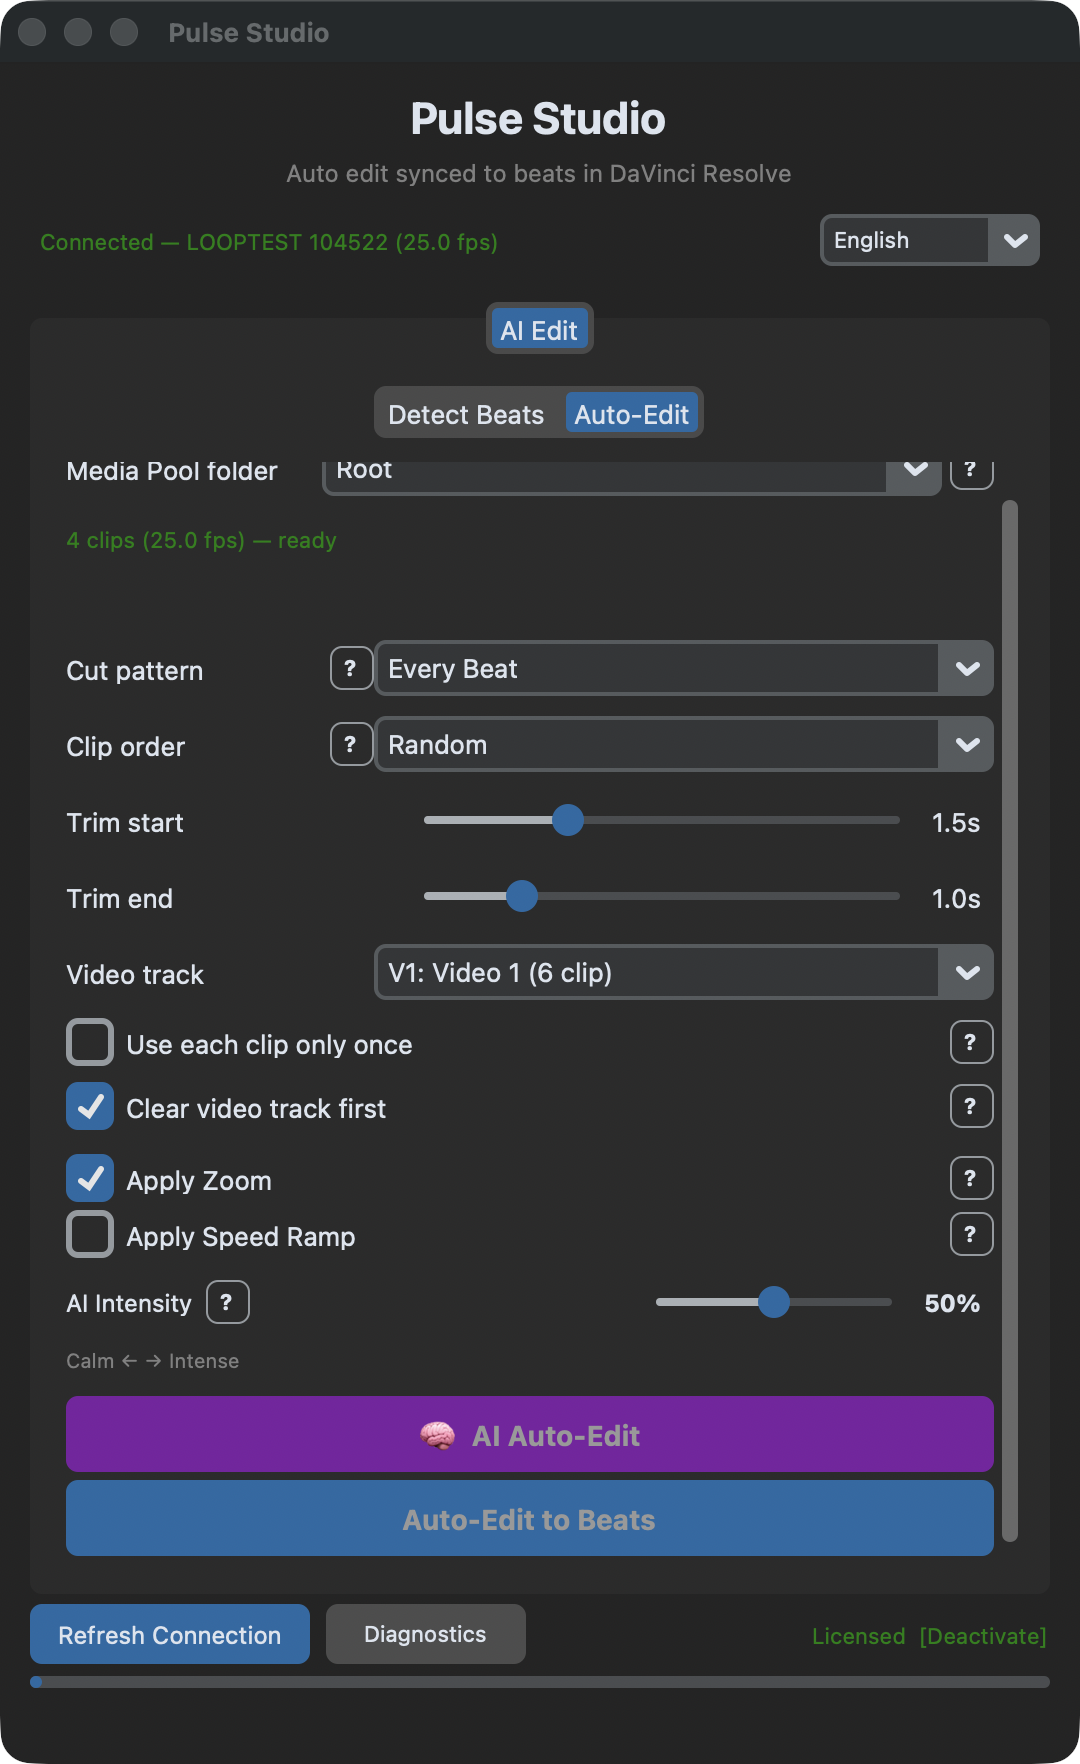
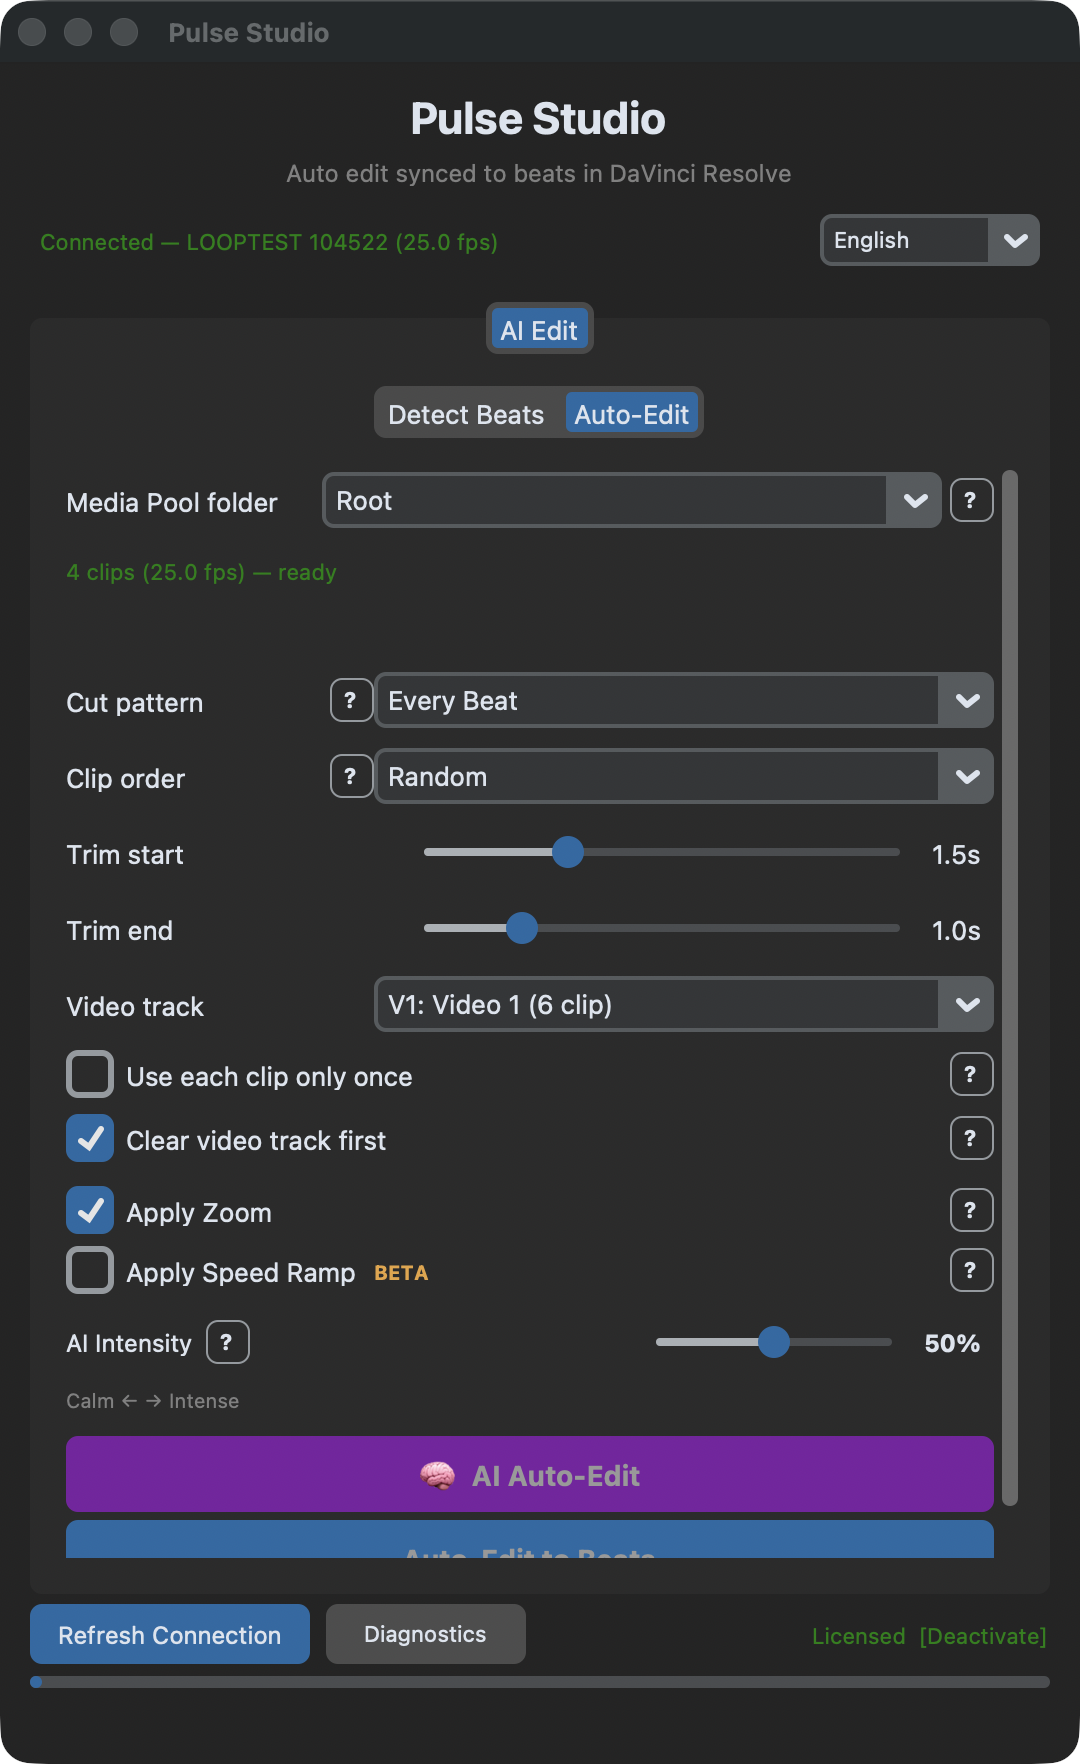
Pulse Studio page rebuilt + shared nav hardened (detached-node fix)
- pulse-nav.js: applyPnav/applyMobile re-query document each tick — React
  hydration replaces the whole header, leaving the captured node detached
  (nav was reverting on pulse-edit.html). v5 cache-bust. Verified pnav on
  /, /pulse-edit.html, /pulse-studio.html via rendered-DOM QC.
- pulse-studio.html: real visuals (fresh app shot with BETA badge, connect/
  detect crop, actual Resolve timeline strip with beat markers), 6-item
  features grid, beta-testing note with support@pulseedit.com in FAQ.

Claude-Session: https://claude.ai/code/session_0126yZV4UdM6s9HmE82V9rDu

Changed region(s): [[0.0611, 0.343, 0.9472, 0.873], [0.0611, 0.2494, 0.9472, 0.343]]

diff --git a/pulse-studio.html b/pulse-studio.html
@@ -62,9 +62,21 @@
 <section class="section wrap" id="how">
     <div class="reveal"><span class="kicker">How it works</span><h2 class="h-lg" style="margin-top:18px;max-width:16ch">Your timeline, edited for you</h2></div>
     <div class="steps">
-        <div class="step reveal"><div class="step__txt"><div class="step__no">01 —</div><h3 class="h-md">Point it at your song</h3><p>Pick an audio track of the timeline, choose a song from your Media Pool (Pulse Studio inserts it for you), or import a file. Hit Detect Beats: AI beat detection maps every beat, bar and subdivision, and places the markers — on the timeline or on the audio clip itself.</p><div class="step__meta"><span class="chip">AI beat detection</span><span class="chip">Media Pool songs</span><span class="chip">Markers, your way</span></div></div><div class="frame frame--shot"><img src="/images/pulse-studio-app.png" alt="Pulse Studio — Detect Beats step" loading="lazy" width="540"/></div></div>
+        <div class="step reveal"><div class="step__txt"><div class="step__no">01 —</div><h3 class="h-md">Point it at your song</h3><p>Pick an audio track of the timeline, choose a song from your Media Pool (Pulse Studio inserts it for you), or import a file. Hit Detect Beats: AI beat detection maps every beat, bar and subdivision, and places the markers — on the timeline or on the audio clip itself.</p><div class="step__meta"><span class="chip">AI beat detection</span><span class="chip">Media Pool songs</span><span class="chip">Markers, your way</span></div></div><div class="frame frame--shot"><img src="/images/pulse-studio-detect.png" alt="Pulse Studio connected to Resolve — pick the song and detect beats" loading="lazy" width="540"/></div></div>
         <div class="step reveal"><div class="step__txt"><div class="step__no">02 —</div><h3 class="h-md">Choose clips &amp; rhythm</h3><p>Use a curated Media Pool folder, or ★ Master to pull every clip you have — subfolders included. Order them sequentially, at random, or chronologically by shooting time (built for weddings). Pick a cut pattern, or let AI mood read the song and decide.</p><div class="step__meta"><span class="chip">★ Master mode</span><span class="chip">Chronological</span><span class="chip">AI mood</span></div></div><div class="frame frame--shot"><img src="/images/pulse-studio-app.png" alt="Pulse Studio — Auto-Edit options" loading="lazy" width="540"/></div></div>
-        <div class="step reveal"><div class="step__txt"><div class="step__no">03 —</div><h3 class="h-md">Generate — with motion</h3><p>Clips land frame-exact on the beats, directly in your Resolve timeline. Animated punch-ins and speed ramps — slow-motion dives, speed-up whips — are eased, beat-aware, and rendered with Optical Flow retiming (Speed Warp on extreme slow-mo).</p><div class="step__meta"><span class="chip">Frame-exact</span><span class="chip">Speed ramps <em style="font-style:normal;color:#e8a33d">BETA</em></span><span class="chip">Optical Flow</span></div></div><div class="frame frame--shot"><img src="/images/pulse-studio-app.png" alt="Pulse Studio — generated edit with FX" loading="lazy" width="540"/></div></div>
+        <div class="step reveal"><div class="step__txt"><div class="step__no">03 —</div><h3 class="h-md">Generate — with motion</h3><p>Clips land frame-exact on the beats, directly in your Resolve timeline. Animated punch-ins and speed ramps — slow-motion dives, speed-up whips — are eased, beat-aware, and rendered with Optical Flow retiming (Speed Warp on extreme slow-mo).</p><div class="step__meta"><span class="chip">Frame-exact</span><span class="chip">Speed ramps <em style="font-style:normal;color:#e8a33d">BETA</em></span><span class="chip">Optical Flow</span></div></div><div class="frame frame--shot"><img src="/images/pulse-studio-timeline.png" alt="The generated timeline in DaVinci Resolve — clips cut on every beat marker" loading="lazy" width="760"/></div></div>
+    </div>
+</section>
+
+<section class="section wrap">
+    <div class="reveal"><span class="kicker">What you get</span><h2 class="h-lg" style="margin-top:18px;max-width:18ch">Built like an editor works</h2></div>
+    <div class="feat-grid reveal">
+        <div class="feat"><div class="feat__ic">A.</div><h3>AI beat detection</h3><p>A neural beat tracker (not just onsets) maps beats, bars and subdivisions — with time signature and sensitivity control.</p></div>
+        <div class="feat"><div class="feat__ic">B.</div><h3>Media Pool native</h3><p>No files to drag around: pick a bin — or ★ Master for every clip you have — and choose the song straight from the pool.</p></div>
+        <div class="feat"><div class="feat__ic">C.</div><h3>Frame-exact cuts</h3><p>Every junction lands exactly on the beat. Pulse Studio reads real positions back from Resolve and compensates any drift.</p></div>
+        <div class="feat"><div class="feat__ic">D.</div><h3>Speed ramps <span style="font-family:var(--font-mono);font-size:11px;color:#e8a33d;">BETA</span></h3><p>Slow-motion dives, speed-up whips, fast→slow combos — real animated retime curves, with Optical Flow enabled automatically.</p></div>
+        <div class="feat"><div class="feat__ic">E.</div><h3>AI mood &amp; intensity</h3><p>The song's mood picks the cut pattern and effect style; one slider scales it from calm to intense.</p></div>
+        <div class="feat"><div class="feat__ic">F.</div><h3>Weddings, in order</h3><p>Chronological mode reads each clip's shooting time and lays the day out as it happened — sampled evenly across the whole shoot.</p></div>
     </div>
 </section>
 
@@ -97,14 +109,14 @@
     <div class="faq-list reveal">
         <div class="faq-item"><button class="faq-q" aria-expanded="true">Does Pulse Studio work on DaVinci Resolve Free?<span class="pm">+</span></button><div class="faq-a"><p>No — it drives Resolve through the scripting API, which only DaVinci Resolve <strong>Studio</strong> exposes. On Resolve Free, use <a href="/pulse-edit.html">Pulse Edit</a> from the same suite: same beat-synced edit, via OTIO, same license.</p></div></div>
         <div class="faq-item"><button class="faq-q" aria-expanded="false">What do I need to set up in Resolve?<span class="pm">+</span></button><div class="faq-a"><p>Two things: DaVinci Resolve Studio running with a project open, and Preferences → System → General → "External scripting using" set to <strong>Local</strong>. Pulse Studio connects automatically and its Diagnostics button tells you exactly what's wrong if it can't.</p></div></div>
-        <div class="faq-item"><button class="faq-q" aria-expanded="false">Are the speed ramps real retimes?<span class="pm">+</span></button><div class="faq-a"><p>Yes — each ramp is an animated retime curve applied to the clip's Fusion composition, with Optical Flow enabled automatically (Speed Warp on extreme slow motion). Speed ramps are currently in <strong>beta</strong>: review the result and tell us if anything looks off.</p></div></div>
+        <div class="faq-item"><button class="faq-q" aria-expanded="false">Are the speed ramps real retimes?<span class="pm">+</span></button><div class="faq-a"><p>Yes — each ramp is an animated retime curve applied to the clip's Fusion composition, with Optical Flow enabled automatically (Speed Warp on extreme slow motion). The whole Pulse Studio workflow is currently in <strong>beta testing</strong>: review the result, and if anything looks off write to <a href="mailto:support@pulseedit.com">support@pulseedit.com</a> &mdash; we read everything.</p></div></div>
         <div class="faq-item"><button class="faq-q" aria-expanded="false">Is it a separate purchase?<span class="pm">+</span></button><div class="faq-a"><p>No. One Pulse license — €13/month or €130/year — unlocks Pulse Edit, Pulse Studio and Pulse Color with the same key, on macOS and Windows.</p></div></div>
         <div class="faq-item"><button class="faq-q" aria-expanded="false">What platforms are supported?<span class="pm">+</span></button><div class="faq-a"><p>macOS: Apple Silicon (M1 or later), macOS 12+, signed and notarized. Windows 10/11 (64-bit). DaVinci Resolve Studio 18.5 or later.</p></div></div>
     </div>
 </section>
 
 </main><footer class="footer"><div class="wrap"><div class="foot-top"><div class="foot-brand"><a class="brand" href="/">Pulse<span class="dot"></span></a><p>Beat-synced auto-editing inside DaVinci Resolve Studio. Built by AB Tools.</p></div><div class="foot-col"><h4>Product</h4><a href="#how">How it works</a><a href="#pricing">Pricing</a><a href="/pulse-edit.html">Pulse Edit</a><a href="/pulse-color.html">Pulse Color</a></div><div class="foot-col"><h4>Downloads</h4><a href="/files/PulseStudio-macOS.dmg">Pulse Studio for macOS</a><a href="/files/PulseStudio-Setup.exe">Pulse Studio for Windows</a></div><div class="foot-col"><h4>More</h4><a href="/blog/">Blog</a><a href="mailto:support@pulseedit.com">Support</a><a href="/withdrawal.html">Refunds &amp; Withdrawal</a><a href="/privacy.html">Privacy</a><a href="/terms.html">Terms</a></div></div><div class="foot-bottom"><span>© 2026 AB Tools — Pulse Studio</span><span>Made for editors who'd rather not tap to the beat.</span></div></div></footer></div>
-    <script src="/pulse-nav.js?v=3" defer></script>
+    <script src="/pulse-nav.js?v=5" defer></script>
     <script>
     (function(){
       // burger

diff --git a/pulse-nav.js b/pulse-nav.js
@@ -17,8 +17,11 @@
     });
     return h + '</div>';
   }
-  var links = nav.querySelector('.nav__links');
-  if (links) {
+  function applyPnav() {
+    // ri-query dal document: React puo' sostituire l'INTERO header dopo
+    // l'hydration, lasciando `nav` come nodo staccato dal DOM
+    var links = document.querySelector('header.nav .nav__links');
+    if (!links || links.querySelector('.pnav')) return;
     links.innerHTML =
       '<div class="pnav" style="position:relative;display:inline-block;">' +
       '<a href="/#products" class="pnav__t" aria-haspopup="true" aria-expanded="false">Products <span style="font-size:9px;">&#9662;</span></a>' +
@@ -52,10 +55,21 @@
       if (!pn.contains(e.target)) closeM();
     });
   }
+  applyPnav();
+  // Le pagine idratate da React (es. pulse-edit.html) ri-renderizzano la nav
+  // DOPO questo script e ripristinano i vecchi link: riapplica per ~8s.
+  var pnavTries = 0;
+  var pnavTimer = setInterval(function () {
+    applyPnav();
+    applyMobile();
+    if (++pnavTries > 16) clearInterval(pnavTimer);
+  }, 500);
 
   // Mobile: sostituisci i link prodotto con i due gruppi per edizione
-  var mob0 = nav.querySelector('.mobile');
-  if (mob0) {
+  function applyMobile() {
+  var mob0 = document.querySelector('header.nav .mobile');
+  if (mob0 && !mob0.dataset.pnavDone) {
+    mob0.dataset.pnavDone = '1';
     var prodHrefs = ['/pulse-edit.html', '/pulse-studio.html', '/pulse-color.html'];
     var first = null;
     prodHrefs.forEach(function (h) {
@@ -82,6 +96,8 @@
       });
     }
   }
+  }
+  applyMobile();
 
   var burger = nav.querySelector('.nav__burger');
   var mobile = nav.querySelector('.mobile');

diff --git a/blog/auto-edit-video-to-music-davinci-resolve.html b/blog/auto-edit-video-to-music-davinci-resolve.html
@@ -419,6 +419,6 @@ function declineCookies() {
 
 <p style="font-size:11px;color:var(--muted);margin:32px auto 16px;max-width:1100px;padding:0 24px;text-align:center;border-top:1px solid var(--line);padding-top:16px;line-height:1.5;">All third-party product names mentioned (BeatEdit, Descript, Runway, CapCut, Adobe Premiere Pro, DaVinci Resolve, Frame.io, etc. &mdash; where applicable) are trademarks of their respective owners. Pulse Edit is not affiliated with or endorsed by these companies. Pricing references accurate as of April 2026 &mdash; check vendor sites for the latest.</p>
 <script defer src="https://static.cloudflareinsights.com/beacon.min.js" data-cf-beacon='{"token":"090ce13315b84609bc53b871490246d2"}'></script>
-    <script src="/pulse-nav.js?v=3" defer></script>
+    <script src="/pulse-nav.js?v=5" defer></script>
 </body>
 </html>

diff --git a/blog/auto-place-beat-markers-davinci-resolve.html b/blog/auto-place-beat-markers-davinci-resolve.html
@@ -339,6 +339,6 @@ function declineCookies() {
 
 <p style="font-size:11px;color:var(--muted);margin:32px auto 16px;max-width:1100px;padding:0 24px;text-align:center;border-top:1px solid var(--line);padding-top:16px;line-height:1.5;">All third-party product names mentioned (BeatEdit, Descript, Runway, CapCut, Adobe Premiere Pro, DaVinci Resolve, Frame.io, etc. &mdash; where applicable) are trademarks of their respective owners. Pulse Edit is not affiliated with or endorsed by these companies. Pricing references accurate as of April 2026 &mdash; check vendor sites for the latest.</p>
 <script defer src="https://static.cloudflareinsights.com/beacon.min.js" data-cf-beacon='{"token":"090ce13315b84609bc53b871490246d2"}'></script>
-    <script src="/pulse-nav.js?v=3" defer></script>
+    <script src="/pulse-nav.js?v=5" defer></script>
 </body>
 </html>

diff --git a/blog/index.html b/blog/index.html
@@ -206,6 +206,6 @@ function declineCookies() {
 
 <p style="font-size:11px;color:var(--muted);margin:32px auto 16px;max-width:1100px;padding:0 24px;text-align:center;border-top:1px solid var(--line);padding-top:16px;line-height:1.5;">All third-party product names mentioned (BeatEdit, Descript, Runway, CapCut, Adobe Premiere Pro, DaVinci Resolve, Frame.io, etc. &mdash; where applicable) are trademarks of their respective owners. Pulse Edit is not affiliated with or endorsed by these companies. Pricing references accurate as of April 2026 &mdash; check vendor sites for the latest.</p>
 <script defer src="https://static.cloudflareinsights.com/beacon.min.js" data-cf-beacon='{"token":"090ce13315b84609bc53b871490246d2"}'></script>
-    <script src="/pulse-nav.js?v=3" defer></script>
+    <script src="/pulse-nav.js?v=5" defer></script>
 </body>
 </html>

diff --git a/blog/music-video-editing-automation-2026.html b/blog/music-video-editing-automation-2026.html
@@ -339,6 +339,6 @@ function declineCookies() {
 
 <p style="font-size:11px;color:var(--muted);margin:32px auto 16px;max-width:1100px;padding:0 24px;text-align:center;border-top:1px solid var(--line);padding-top:16px;line-height:1.5;">All third-party product names mentioned (BeatEdit, Descript, Runway, CapCut, Adobe Premiere Pro, DaVinci Resolve, Frame.io, etc. &mdash; where applicable) are trademarks of their respective owners. Pulse Edit is not affiliated with or endorsed by these companies. Pricing references accurate as of April 2026 &mdash; check vendor sites for the latest.</p>
 <script defer src="https://static.cloudflareinsights.com/beacon.min.js" data-cf-beacon='{"token":"090ce13315b84609bc53b871490246d2"}'></script>
-    <script src="/pulse-nav.js?v=3" defer></script>
+    <script src="/pulse-nav.js?v=5" defer></script>
 </body>
 </html>

diff --git a/blog/sync-video-music-davinci-resolve-tutorial.html b/blog/sync-video-music-davinci-resolve-tutorial.html
@@ -260,6 +260,6 @@ function declineCookies() {
 
 <p style="font-size:11px;color:var(--muted);margin:32px auto 16px;max-width:1100px;padding:0 24px;text-align:center;border-top:1px solid var(--line);padding-top:16px;line-height:1.5;">All third-party product names mentioned (BeatEdit, Descript, Runway, CapCut, Adobe Premiere Pro, DaVinci Resolve, Frame.io, etc. &mdash; where applicable) are trademarks of their respective owners. Pulse Edit is not affiliated with or endorsed by these companies. Pricing references accurate as of April 2026 &mdash; check vendor sites for the latest.</p>
 <script defer src="https://static.cloudflareinsights.com/beacon.min.js" data-cf-beacon='{"token":"090ce13315b84609bc53b871490246d2"}'></script>
-    <script src="/pulse-nav.js?v=3" defer></script>
+    <script src="/pulse-nav.js?v=5" defer></script>
 </body>
 </html>

diff --git a/blog/sync-video-to-music-davinci-resolve.html b/blog/sync-video-to-music-davinci-resolve.html
@@ -388,6 +388,6 @@ function declineCookies() {
 
 <p style="font-size:11px;color:var(--muted);margin:32px auto 16px;max-width:1100px;padding:0 24px;text-align:center;border-top:1px solid var(--line);padding-top:16px;line-height:1.5;">All third-party product names mentioned (BeatEdit, Descript, Runway, CapCut, Adobe Premiere Pro, DaVinci Resolve, Frame.io, etc. &mdash; where applicable) are trademarks of their respective owners. Pulse Edit is not affiliated with or endorsed by these companies. Pricing references accurate as of April 2026 &mdash; check vendor sites for the latest.</p>
 <script defer src="https://static.cloudflareinsights.com/beacon.min.js" data-cf-beacon='{"token":"090ce13315b84609bc53b871490246d2"}'></script>
-    <script src="/pulse-nav.js?v=3" defer></script>
+    <script src="/pulse-nav.js?v=5" defer></script>
 </body>
 </html>

diff --git a/blog/tiktok-creator-davinci-resolve-plugin.html b/blog/tiktok-creator-davinci-resolve-plugin.html
@@ -271,6 +271,6 @@ function declineCookies() {
 
 <p style="font-size:11px;color:var(--muted);margin:32px auto 16px;max-width:1100px;padding:0 24px;text-align:center;border-top:1px solid var(--line);padding-top:16px;line-height:1.5;">All third-party product names mentioned (BeatEdit, Descript, Runway, CapCut, Adobe Premiere Pro, DaVinci Resolve, Frame.io, etc. &mdash; where applicable) are trademarks of their respective owners. Pulse Edit is not affiliated with or endorsed by these companies. Pricing references accurate as of April 2026 &mdash; check vendor sites for the latest.</p>
 <script defer src="https://static.cloudflareinsights.com/beacon.min.js" data-cf-beacon='{"token":"090ce13315b84609bc53b871490246d2"}'></script>
-    <script src="/pulse-nav.js?v=3" defer></script>
+    <script src="/pulse-nav.js?v=5" defer></script>
 </body>
 </html>

diff --git a/blog/travel-montage-auto-edit-davinci-resolve.html b/blog/travel-montage-auto-edit-davinci-resolve.html
@@ -276,6 +276,6 @@ function declineCookies() {
 
 <p style="font-size:11px;color:var(--muted);margin:32px auto 16px;max-width:1100px;padding:0 24px;text-align:center;border-top:1px solid var(--line);padding-top:16px;line-height:1.5;">All third-party product names mentioned (BeatEdit, Descript, Runway, CapCut, Adobe Premiere Pro, DaVinci Resolve, Frame.io, etc. &mdash; where applicable) are trademarks of their respective owners. Pulse Edit is not affiliated with or endorsed by these companies. Pricing references accurate as of April 2026 &mdash; check vendor sites for the latest.</p>
 <script defer src="https://static.cloudflareinsights.com/beacon.min.js" data-cf-beacon='{"token":"090ce13315b84609bc53b871490246d2"}'></script>
-    <script src="/pulse-nav.js?v=3" defer></script>
+    <script src="/pulse-nav.js?v=5" defer></script>
 </body>
 </html>

diff --git a/blog/wedding-highlight-reel-davinci-resolve.html b/blog/wedding-highlight-reel-davinci-resolve.html
@@ -264,6 +264,6 @@ function declineCookies() {
 
 <p style="font-size:11px;color:var(--muted);margin:32px auto 16px;max-width:1100px;padding:0 24px;text-align:center;border-top:1px solid var(--line);padding-top:16px;line-height:1.5;">All third-party product names mentioned (BeatEdit, Descript, Runway, CapCut, Adobe Premiere Pro, DaVinci Resolve, Frame.io, etc. &mdash; where applicable) are trademarks of their respective owners. Pulse Edit is not affiliated with or endorsed by these companies. Pricing references accurate as of April 2026 &mdash; check vendor sites for the latest.</p>
 <script defer src="https://static.cloudflareinsights.com/beacon.min.js" data-cf-beacon='{"token":"090ce13315b84609bc53b871490246d2"}'></script>
-    <script src="/pulse-nav.js?v=3" defer></script>
+    <script src="/pulse-nav.js?v=5" defer></script>
 </body>
 </html>

diff --git a/blog/why-pulse-edit-is-a-subscription.html b/blog/why-pulse-edit-is-a-subscription.html
@@ -223,6 +223,6 @@ function declineCookies() {
 
 <p style="font-size:11px;color:var(--muted);margin:32px auto 16px;max-width:1100px;padding:0 24px;text-align:center;border-top:1px solid var(--line);padding-top:16px;line-height:1.5;">All third-party product names mentioned (BeatEdit, Descript, Runway, CapCut, Adobe Premiere Pro, DaVinci Resolve, Frame.io, etc. &mdash; where applicable) are trademarks of their respective owners. Pulse Edit is not affiliated with or endorsed by these companies. Pricing references accurate as of April 2026 &mdash; check vendor sites for the latest.</p>
 <script defer src="https://static.cloudflareinsights.com/beacon.min.js" data-cf-beacon='{"token":"090ce13315b84609bc53b871490246d2"}'></script>
-    <script src="/pulse-nav.js?v=3" defer></script>
+    <script src="/pulse-nav.js?v=5" defer></script>
 </body>
 </html>
